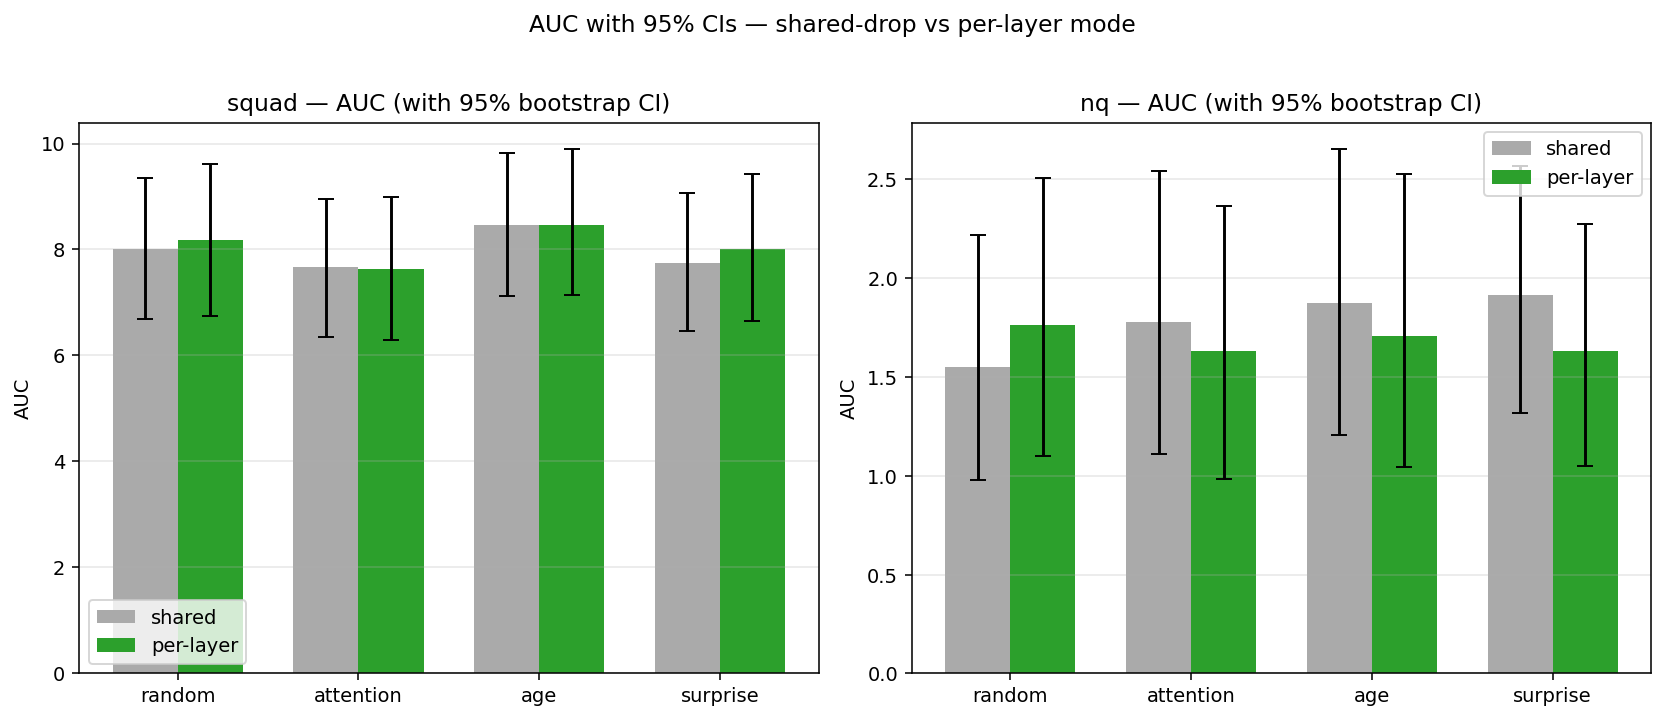
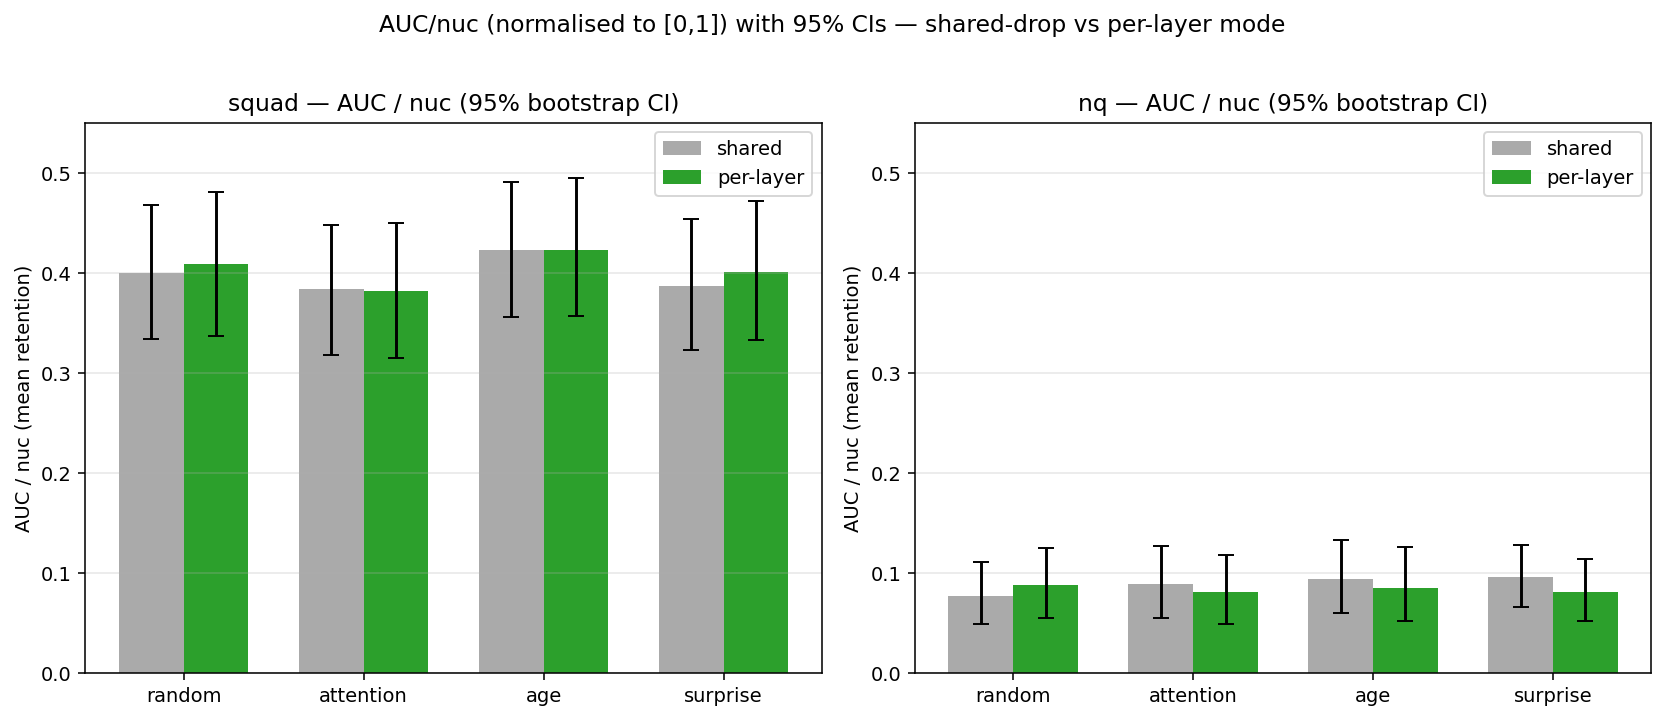
[FIX] C2: normalize AUC to [0,1] in CSV + P3 figure

diff --git a/analysis/extra_plots.py b/analysis/extra_plots.py
@@ -158,7 +158,8 @@ def plot_p2(D, out):
 # ---------------------------------------------------------------------------
 # P3 — AUC bar chart with 95% bootstrap CIs, shared vs per-layer
 # ---------------------------------------------------------------------------
-def plot_p3(D, out, n_iters=2000):
+def plot_p3(D, out, n_iters=2000, normalise=True):
+    """If normalise=True, divide AUC by nuc so y-axis is on [0, 1]."""
     fig, axes = plt.subplots(1, len(DATASETS), figsize=(6 * len(DATASETS), 5))
     rng = np.random.default_rng(0)
     width = 0.36
@@ -167,18 +168,23 @@ def plot_p3(D, out, n_iters=2000):
     for ax, ds in zip(axes, DATASETS):
         shared_aucs, shared_lo, shared_hi = [], [], []
         per_aucs,    per_lo,    per_hi    = [], [], []
+        # use nuc from the first available file to set the normalisation divisor
+        nuc = next((D[m][ds][s]["config"]["nuc"]
+                    for m in ("perlayer", "shared")
+                    for s in STRATEGIES if s in D[m][ds]), 20)
+        scale = nuc if normalise else 1
         for st in STRATEGIES:
             for tag, mode in [("shared", shared_aucs), ("perlayer", per_aucs)]:
                 if st in D[tag][ds]:
                     M = D[tag][ds][st]["_M"]
-                    mode.append(float(trapz(M.mean(0))))
+                    mode.append(float(trapz(M.mean(0))) / scale)
                 else:
                     mode.append(float("nan"))
             for tag, lo, hi in [("shared", shared_lo, shared_hi),
                                 ("perlayer", per_lo, per_hi)]:
                 if st in D[tag][ds]:
                     a, b = bootstrap_auc_ci(D[tag][ds][st]["_M"], n_iters, rng)
-                    lo.append(a); hi.append(b)
+                    lo.append(a / scale); hi.append(b / scale)
                 else:
                     lo.append(float("nan")); hi.append(float("nan"))
         shared_err = [np.array(shared_aucs) - np.array(shared_lo),
@@ -190,11 +196,15 @@ def plot_p3(D, out, n_iters=2000):
         ax.bar(x + width/2, per_aucs, width, yerr=per_err,
                label="per-layer", color="#2ca02c", capsize=4)
         ax.set_xticks(x); ax.set_xticklabels(STRATEGIES)
-        ax.set_title(f"{ds} — AUC (with 95% bootstrap CI)")
-        ax.set_ylabel("AUC")
+        ylab = "AUC / nuc (mean retention)" if normalise else "AUC (raw)"
+        ax.set_title(f"{ds} — {ylab.split(' (')[0]} (95% bootstrap CI)")
+        ax.set_ylabel(ylab)
+        if normalise:
+            ax.set_ylim(0, max(0.55, max(per_hi + shared_hi) * 1.1))
         ax.legend()
         ax.grid(axis="y", alpha=0.3)
-    fig.suptitle("AUC with 95% CIs — shared-drop vs per-layer mode", y=1.02)
+    title = "AUC/nuc (normalised to [0,1])" if normalise else "AUC (raw)"
+    fig.suptitle(f"{title} with 95% CIs — shared-drop vs per-layer mode", y=1.02)
     plt.tight_layout()
     plt.savefig(out, dpi=140, bbox_inches="tight")
     print(f"  wrote {out}")

diff --git a/analysis/auc_table.py b/analysis/auc_table.py
@@ -38,15 +38,19 @@ def main():
             with open(path) as f:
                 d = json.load(f)
             accs = d["accuracy_per_step"]
+            nuc = d["config"]["nuc"]
+            # AUC normalised to [0, 1] by dividing by the integration width (nuc).
+            # np.trapz over (nuc+1) points with dx=1 gives raw AUC in [0, nuc].
             rows.append({
-                "dataset":     ds,
-                "strategy":    strat,
-                "nuc":         d["config"]["nuc"],
-                "num_samples": d["config"]["num_samples"],
-                "auc":         round(d["auc"], 4),
-                "step_0":      round(accs[0], 4),
-                "step_final":  round(accs[-1], 4),
-                "elapsed_s":   round(d.get("elapsed_seconds", -1), 1),
+                "dataset":      ds,
+                "strategy":     strat,
+                "nuc":          nuc,
+                "num_samples":  d["config"]["num_samples"],
+                "auc":          round(d["auc"], 4),
+                "auc_norm":     round(d["auc"] / nuc, 4),
+                "step_0":       round(accs[0], 4),
+                "step_final":   round(accs[-1], 4),
+                "elapsed_s":    round(d.get("elapsed_seconds", -1), 1),
             })
 
     if not rows:
@@ -55,7 +59,7 @@ def main():
 
     os.makedirs(os.path.dirname(args.out), exist_ok=True)
     fieldnames = ["dataset", "strategy", "nuc", "num_samples",
-                  "auc", "step_0", "step_final", "elapsed_s"]
+                  "auc", "auc_norm", "step_0", "step_final", "elapsed_s"]
     with open(args.out, "w", newline="") as f:
         w = csv.DictWriter(f, fieldnames=fieldnames)
         w.writeheader()
@@ -64,11 +68,11 @@ def main():
     print(f"  -> {args.out}")
 
     # Pretty-print to stdout
-    print("\n  dataset  strategy   nuc   N    AUC   step0  stepN")
-    print("  " + "-" * 52)
+    print("\n  dataset  strategy   nuc   N     AUC    AUC/nuc  step0  stepN")
+    print("  " + "-" * 62)
     for r in rows:
-        print(f"  {r['dataset']:<8} {r['strategy']:<10} {r['nuc']:<5} {r['num_samples']:<4}"
-              f" {r['auc']:<6} {r['step_0']:<6} {r['step_final']}")
+        print(f"  {r['dataset']:<8} {r['strategy']:<10} {r['nuc']:<5} {r['num_samples']:<5}"
+              f" {r['auc']:<6} {r['auc_norm']:<8} {r['step_0']:<6} {r['step_final']}")
 
 
 if __name__ == "__main__":
